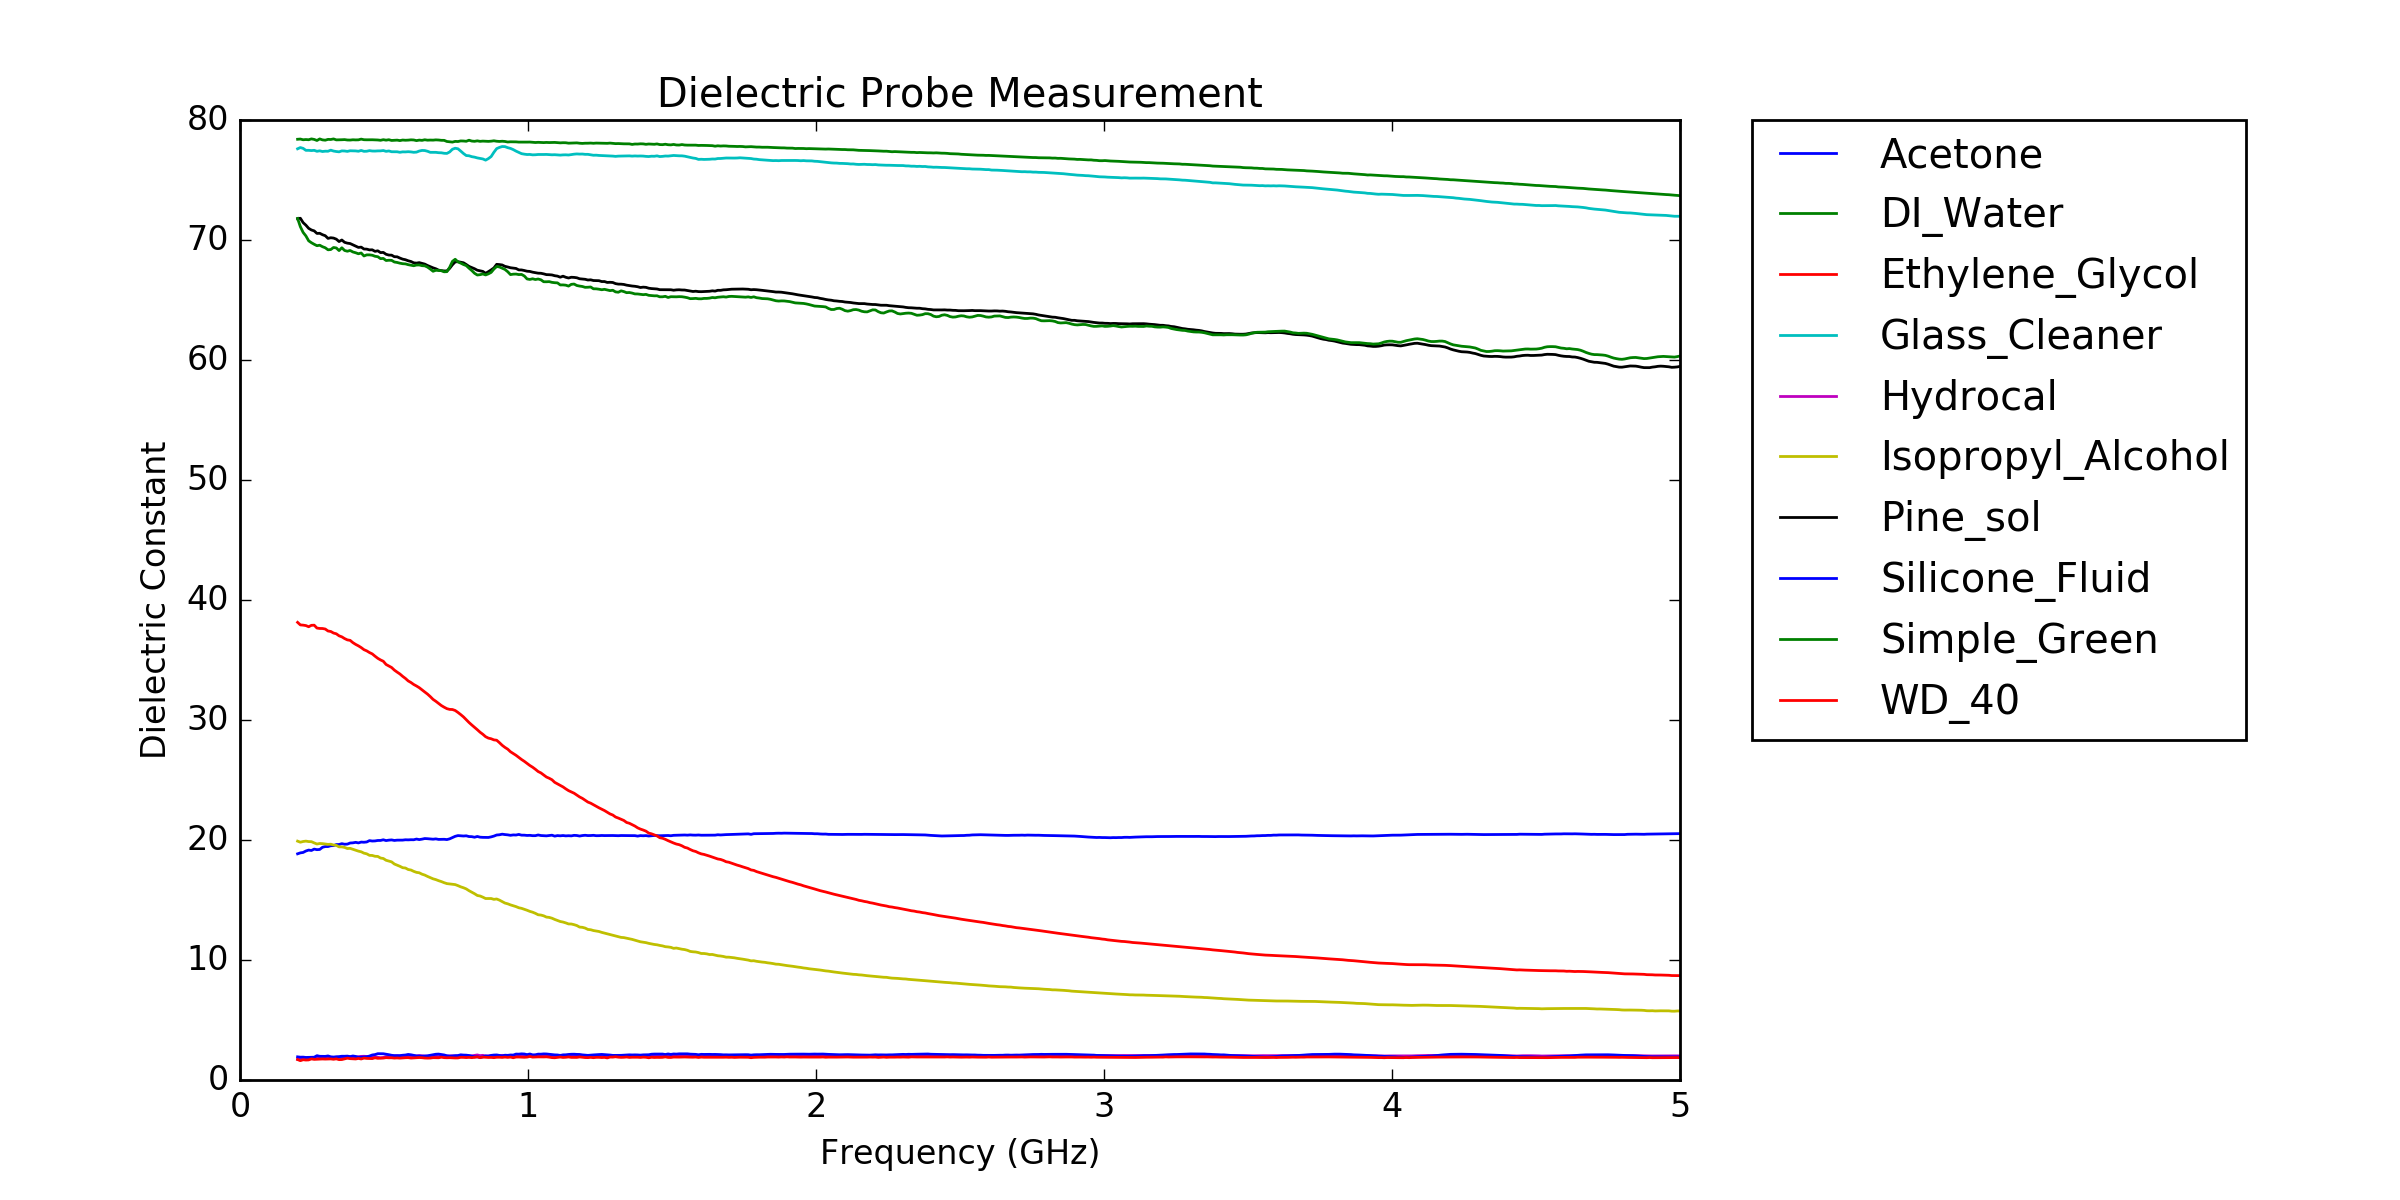
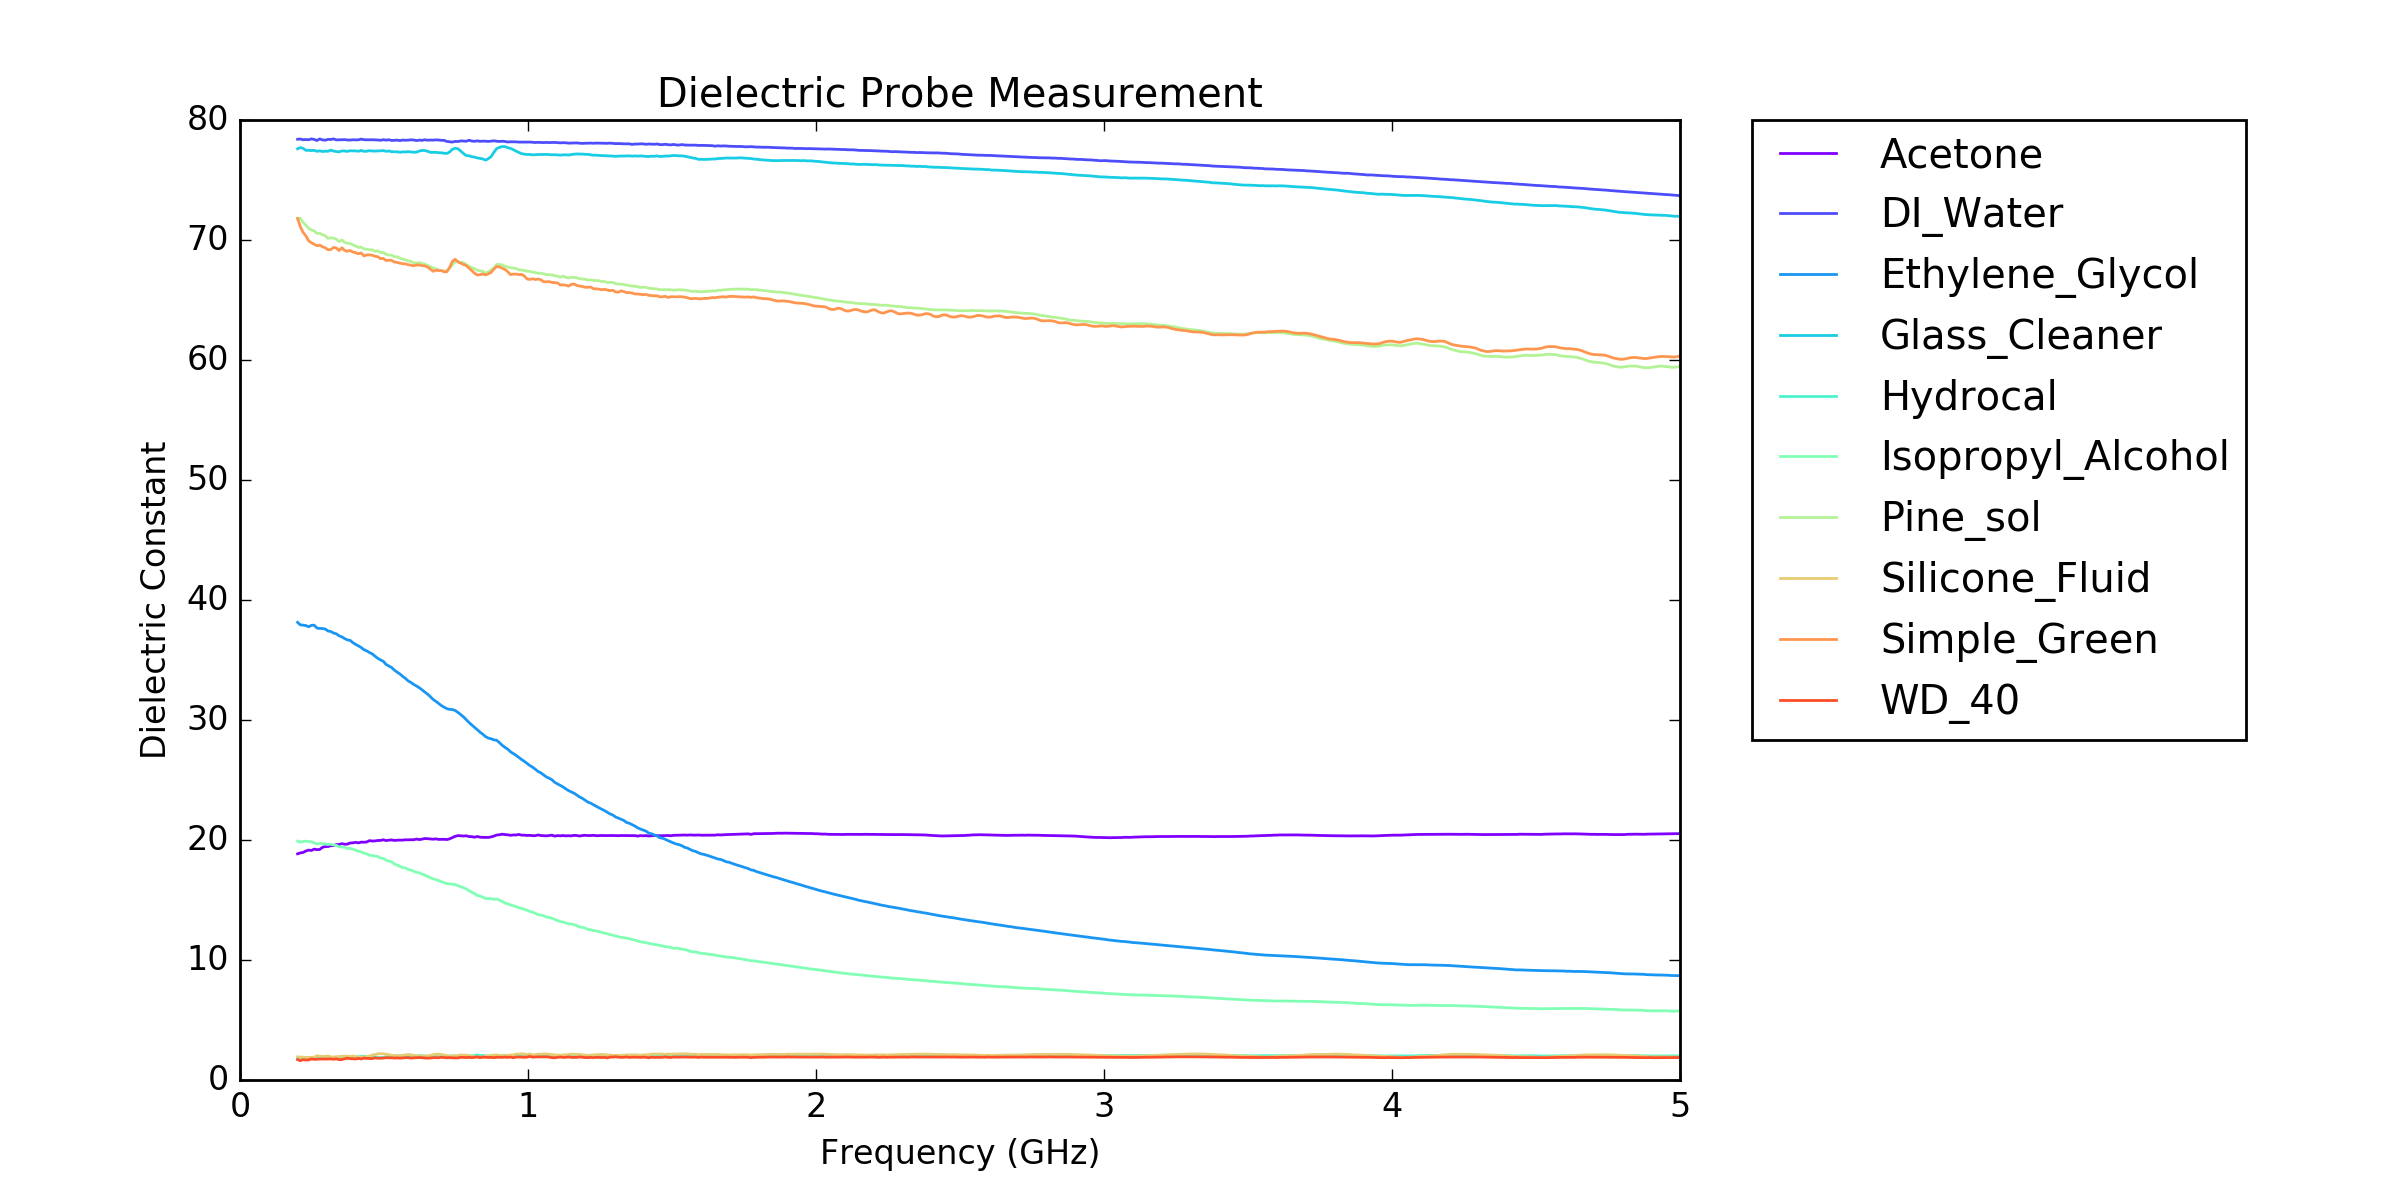
labs

diff --git a/Students/hongpan0507/Lab10/MeasuredData/Friday/mod_plot.py b/Students/hongpan0507/Lab10/MeasuredData/Friday/mod_plot.py
@@ -7,9 +7,11 @@ import numpy as np
 def meas_rect_plot(file_name, data, save_name):
     fig = plot.figure(1, figsize=(12, 6), dpi=80, facecolor='w', edgecolor='k')
     ax0 = plot.subplot(111)
+    color = iter(cm.rainbow(np.linspace(0, 1, len(data))))
     for i in range(1, len(data)):
-        ax0.plot(data[0], data[i], label=file_name[i-1])
+        ax0.plot(data[0], data[i], color=next(color), label=file_name[i-1])
     # ax0.axis([0.2, 5, -50, 5])     # [xmin, xmax, ymin, ymax]
+
     plot.xlabel('Frequency (GHz)')
     plot.ylabel('Dielectric Constant')
     plot.title('Dielectric Probe Measurement')
@@ -17,3 +19,4 @@ def meas_rect_plot(file_name, data, save_name):
     plot.subplots_adjust(left=0.1, right=0.7, top=0.9, bottom=0.1, hspace=0, wspace=0)
     plot.savefig('plotting/' + save_name, dpi=200, facecolor='w', edgecolor='k')
     plot.show()
+
